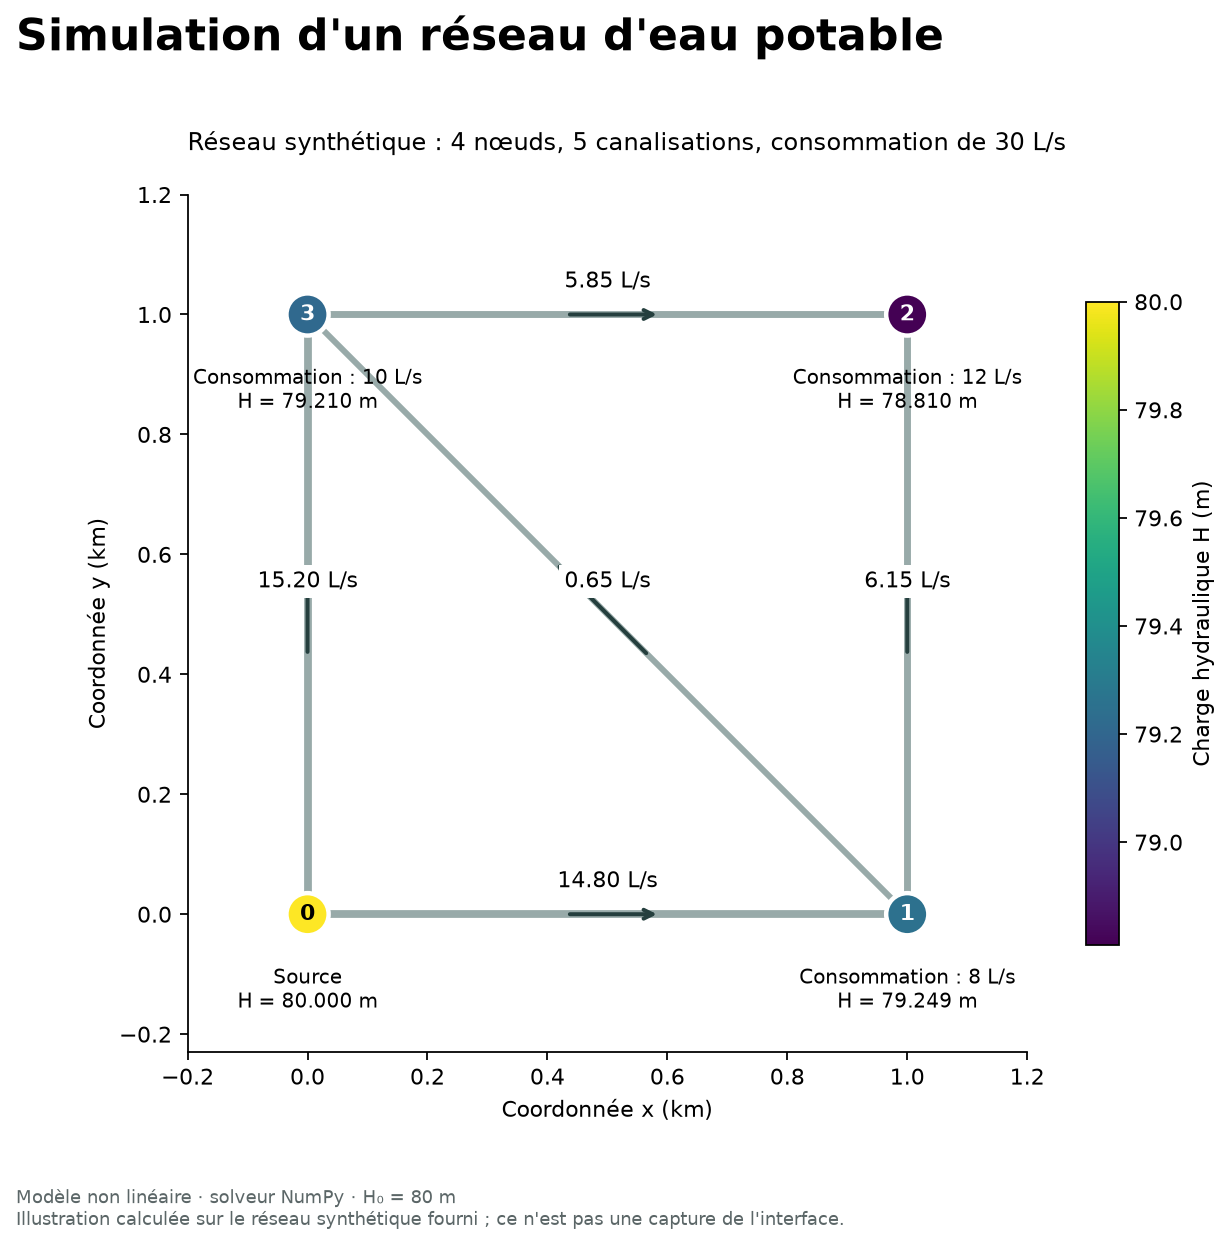
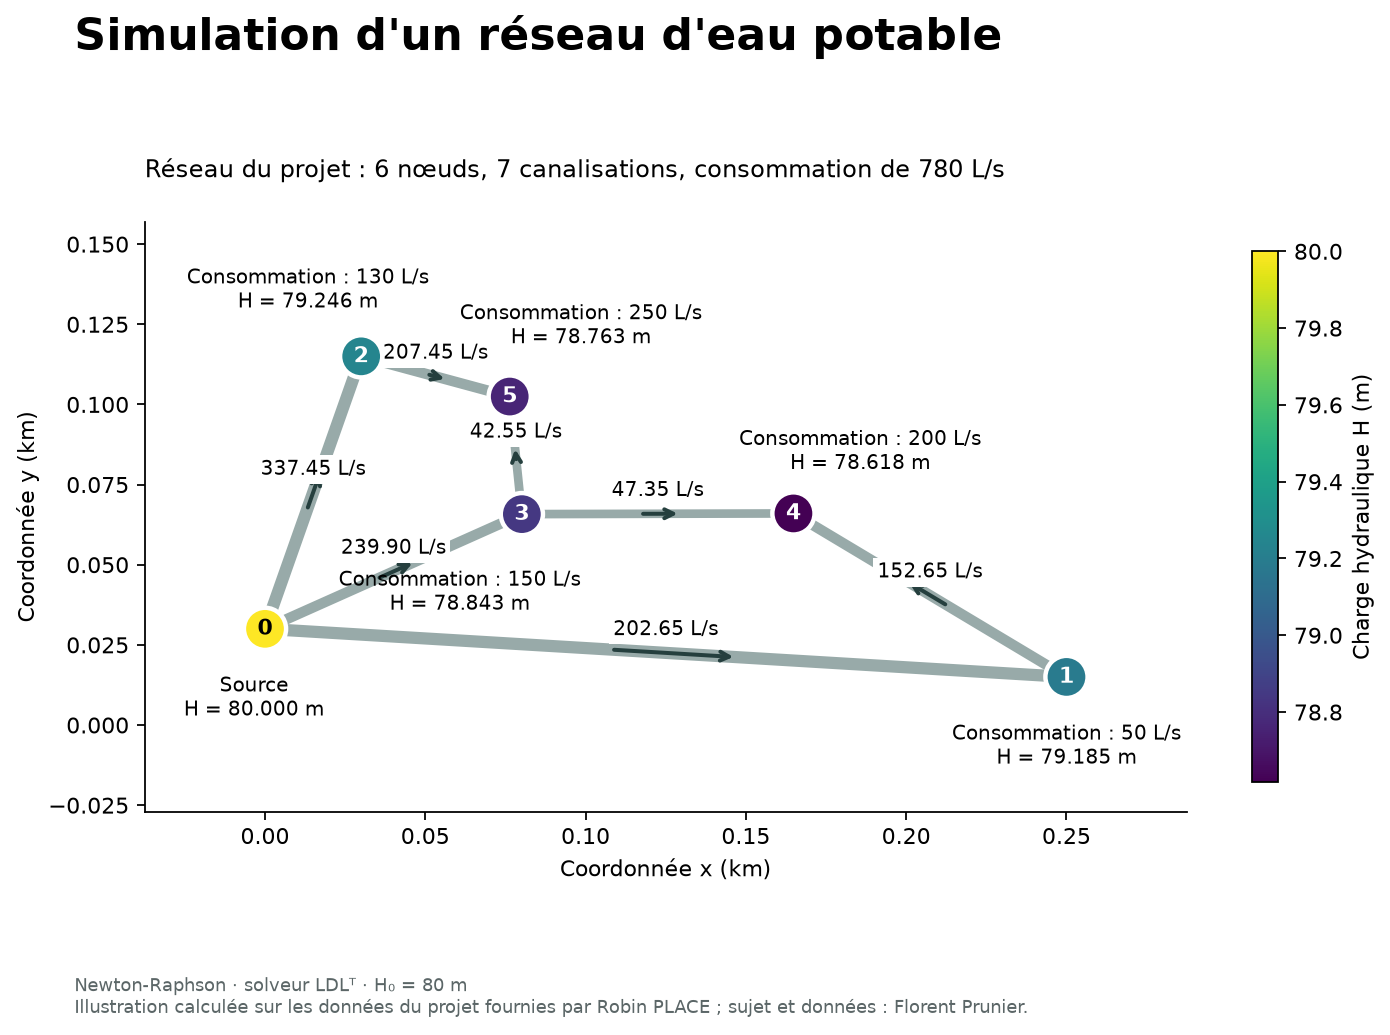
Documenter et illustrer le réseau de démonstration

diff --git a/docs/generer_apercu.py b/docs/generer_apercu.py
@@ -17,29 +17,32 @@ from Main_tout_modele import Controleur
 
 def main():
     fichiers = [str(ROOT / "data" / "demo" / f"{p}0.txt") for p in ("connec", "noeuds", "debit", "Diam")]
-    c = Controleur(fichiers, "Non Linéaire", "Numpy", 1e-8, 80, 2, 9)
+    c = Controleur(fichiers, "Non Linéaire", "LDLT", 1e-8, 80, 2, 9)
     with contextlib.redirect_stdout(io.StringIO()):
         c.resolution()
-    fig, ax = plt.subplots(figsize=(10, 8))
+    fig, ax = plt.subplots(figsize=(11, 6.6))
     fig.subplots_adjust(left=.12, right=.86, bottom=.17, top=.84)
     fig.suptitle("Simulation d'un réseau d'eau potable", fontsize=20, fontweight="bold", ha="left", x=.08)
-    ax.set_title("Réseau synthétique : 4 nœuds, 5 canalisations, consommation de 30 L/s", fontsize=11, loc="left", pad=20)
+    consommation = sum(c.info_debits[1:])
+    ax.set_title(f"Réseau du projet : {len(c.noeuds)} nœuds, {len(c.canalisations)} canalisations, consommation de {consommation:g} L/s", fontsize=11, loc="left", pad=20)
     for canal in c.canalisations:
         a, b = canal.noeud1, canal.noeud2
         ax.plot([a.x, b.x], [a.y, b.y], color="#98aaa9", linewidth=1.5 + 8*canal.D, zorder=1)
         debit = canal.debit
         origine, arrivee = (a, b) if debit >= 0 else (b, a)
         ax.annotate("", xy=(origine.x + .59*(arrivee.x-origine.x), origine.y + .59*(arrivee.y-origine.y)), xytext=(origine.x + .43*(arrivee.x-origine.x), origine.y + .43*(arrivee.y-origine.y)), arrowprops={"arrowstyle": "->", "color": "#253f3e", "lw": 1.8})
-        ax.text((a.x+b.x)/2, (a.y+b.y)/2 + .045, f"{abs(debit)*1000:.2f} L/s", ha="center", fontsize=10, bbox={"facecolor": "white", "edgecolor": "none", "pad": 2.5})
+        ax.annotate(f"{abs(debit)*1000:.2f} L/s", ((a.x+b.x)/2, (a.y+b.y)/2), xytext=(0, 8), textcoords="offset points", ha="center", fontsize=9, bbox={"facecolor": "white", "edgecolor": "none", "pad": 2})
     points = ax.scatter([n.x for n in c.noeuds], [n.y for n in c.noeuds], c=[n.potentiel for n in c.noeuds], cmap="viridis", s=360, edgecolors="white", linewidths=2, zorder=3)
+    decalages = [(-5, -39), (0, -39), (-24, 22), (-28, -43), (30, 20), (32, 24)]
     for n in c.noeuds:
         ax.text(n.x, n.y, str(n.num), ha="center", va="center", color="black" if n.num == 0 else "white", fontsize=10, fontweight="bold", zorder=4)
         label = "Source" if n.num == 0 else f"Consommation : {n.debit:g} L/s"
-        ax.annotate(f"{label}\nH = {n.potentiel:.3f} m", (n.x, n.y), xytext=(0, -42), textcoords="offset points", ha="center", fontsize=9)
+        ax.annotate(f"{label}\nH = {n.potentiel:.3f} m", (n.x, n.y), xytext=decalages[n.num], textcoords="offset points", ha="center", fontsize=9)
     fig.colorbar(points, ax=ax, shrink=.75, label="Charge hydraulique H (m)")
-    ax.set(xlabel="Coordonnée x (km)", ylabel="Coordonnée y (km)", xlim=(-.2, 1.2), ylim=(-.23, 1.2), aspect="equal")
+    ax.set(xlabel="Coordonnée x (km)", ylabel="Coordonnée y (km)", aspect="equal")
+    ax.margins(x=.15, y=.42)
     ax.spines[["top", "right"]].set_visible(False)
-    fig.text(.08, .035, "Modèle non linéaire · solveur NumPy · H₀ = 80 m\nIllustration calculée sur le réseau synthétique fourni ; ce n'est pas une capture de l'interface.", fontsize=8, color="#5b6667")
+    fig.text(.08, .035, "Newton-Raphson · solveur LDLᵀ · H₀ = 80 m\nIllustration calculée sur les données du projet fournies par Robin PLACE ; sujet et données : Florent Prunier.", fontsize=8, color="#5b6667")
     fichier = ROOT / "docs" / "demo-reseau.png"
     fig.savefig(fichier, dpi=160, facecolor="white", bbox_inches="tight")
     plt.close(fig)

diff --git a/docs/donnees.md b/docs/donnees.md
@@ -9,13 +9,15 @@ Le réseau original comprend `connec2.txt`, `noeuds2.txt`, `debit2.txt` et `Diam
 
 L'ordre des diamètres correspond à celui des canalisations ; l'ordre des débits correspond à celui des nœuds. Le premier nœud est la source de charge imposée.
 
-## Exemple autonome
+## Réseau de démonstration du projet
 
 Les fichiers de `data/demo/` utilisent le format historique suffixé `0` : coordonnées séparées par des espaces et exprimées en mètres ; diamètres déjà exprimés en mètres. Les conversions à la lecture diffèrent donc du format suffixé `2`.
 
-Le réseau synthétique contient quatre nœuds, cinq canalisations et une consommation totale de 30 L/s. Il a été créé pour rendre le dépôt directement essayable. Il ne doit pas être présenté comme le réseau original du projet ou comme un résultat expérimental.
+Les quatre fichiers sont ceux transmis par Robin PLACE pour le réseau de démonstration du projet. Ils contiennent six nœuds et sept canalisations, avec une consommation totale de **780 L/s** sur les cinq nœuds consommateurs.
+
+Les fichiers fournis sont conservés sans modification. La première ligne numérique de `debit0.txt` indique un débit de source de −900 L/s ; ce débit est recalculé lors de la résolution à partir des consommations, soit −780 L/s à l'équilibre.
 
 ## Données originales
 
-Les données originales ont été ajoutées au dépôt par Robin PLACE. La source initiale et les éventuelles conditions de redistribution restent à documenter.
+Le sujet et les données du projet ont été fournis par **Florent Prunier** dans le cadre du P2I à l'INSA Lyon. Robin PLACE a fourni les fichiers intégrés au dépôt. Les données conservent leurs conditions d'utilisation propres et sont exclues du périmètre MIT du code.
 
